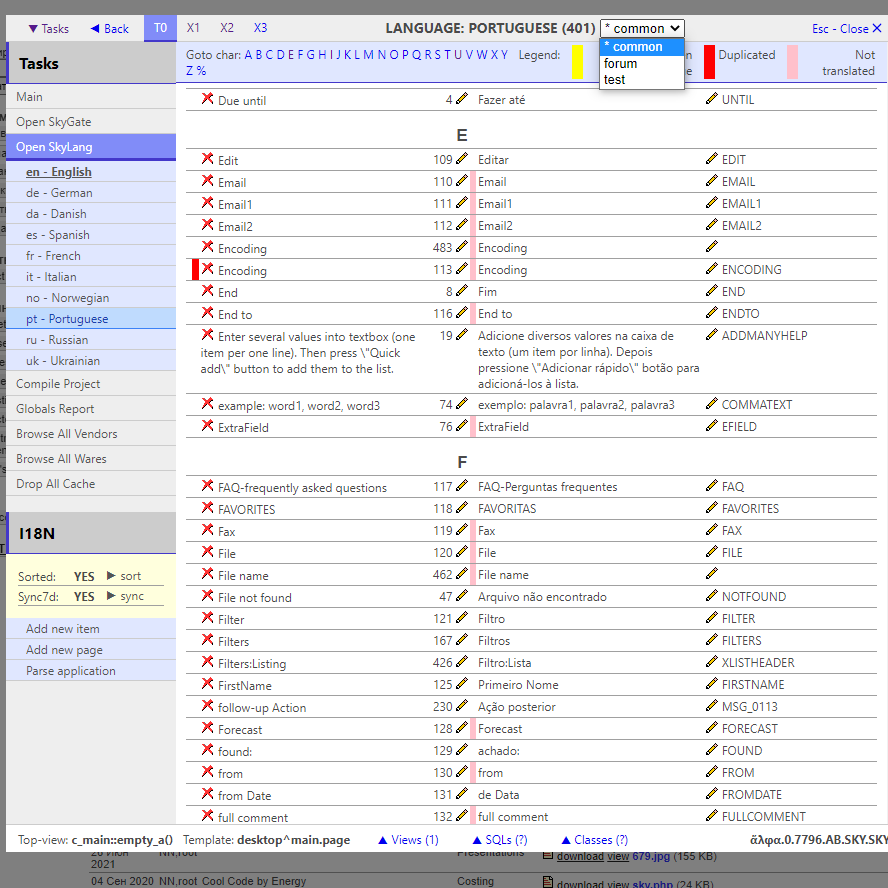
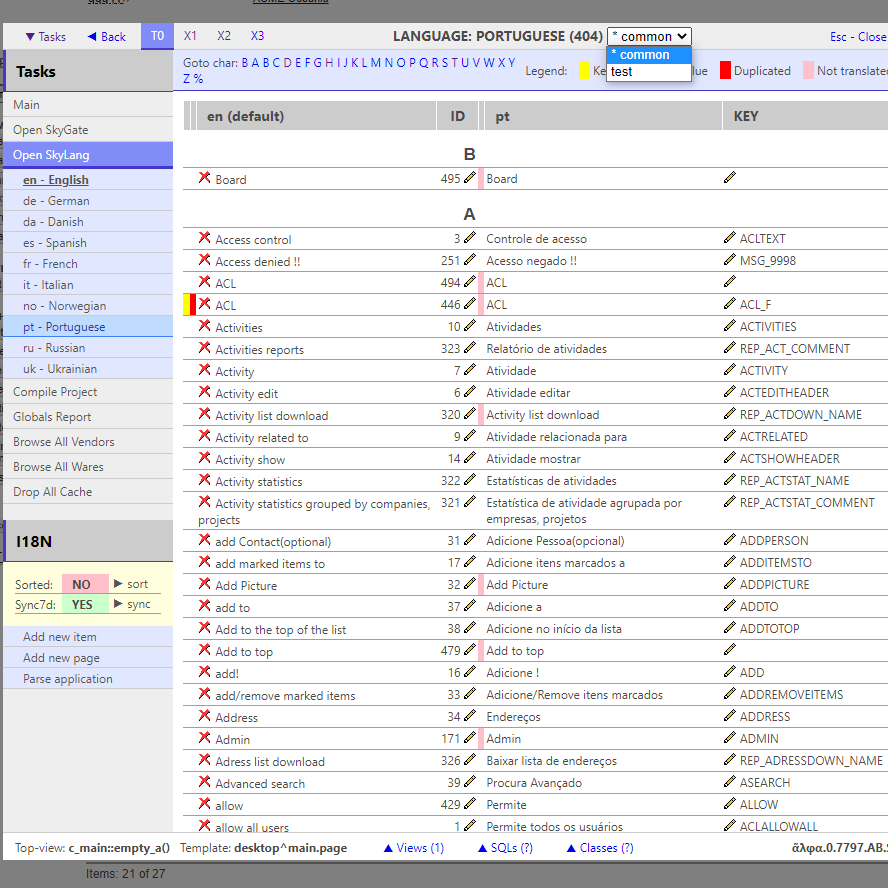
tune Langs

Changed region(s): [[0.0, 0.0, 1.0, 1.0]]

diff --git a/w2/language.php b/w2/language.php
@@ -23,15 +23,15 @@ class Language
         if ($me->error)
             throw new Error("class Language error=$me->error");
         trace($ary, 'Collected new translations');
-        $page = SKY::$reg['lg_page'] ?: '*';
-        $next_id = 0x7FFF & $me->t->cell($where = qp('lg=$+ and name=$+', DEFAULT_LG, $page), 'flag');
+        $me->page = SKY::$reg['lg_page'] ?: '*';
+        $next_id = 0x7FFF & $me->t->cell($where = qp('lg=$+ and name=$+', DEFAULT_LG, $me->page), 'flag');
         $new = array_join($ary, function($k) use (&$next_id) {
             return $next_id++ . '  ' . escape($k);
         });
         // qp('$cc($+, tmemo)', "$new\n") not work !
-        $me->t->update(['$tmemo' => qp(qp('$cc($+, tmemo)'), "$new\n")], qp('name=$+', $page));
+        $me->t->update(['$tmemo' => qp(qp('$cc($+, tmemo)'), "$new\n")], qp('name=$+', $me->page));
         $me->t->update(['.flag' => $next_id | self::NON_SORT], $where);
-        $me->c_generate($page, false); # without sorting
+        $me->c_sync(false, false); # without sorting
     }
 
     static function names() {
@@ -164,9 +164,19 @@ class Language
         return $this->c_list($lg);
     }
 
-    function c_generate($page, $is_user = true) {
+    function c_sync($lg, $is_user = true) {
+        if ($lg) {
+            $list = $this->t->all(qp('name<>"*" group by name'), 'name');
+            $tmp = $this->page;
+            foreach ([-1 => '*'] + $list as $page) {
+                $this->page = $page;
+                $this->c_sync(false, $is_user);
+            }
+            $this->page = $tmp;
+            return $this->c_list($lg);
+        }
         $dary = $this->load(DEFAULT_LG, $is_user, $is_user);
-        $page = '*' === $page ? '' : "_$page";
+        $page = '*' === $this->page ? '' : "_$this->page";
         foreach ($this->list as $lg) {
             $out = [];
             $ary = $lg == DEFAULT_LG ? [] : $this->load($lg);
@@ -189,7 +199,6 @@ class Language
             $file .= "\nreturn " . var_export($out, true) . ";\n\n";
             Plan::_p("lng/$lg$page.php", $file);
         }
-        return [];
     }
 
     function c_test() { //Plan::_t
@@ -271,18 +280,16 @@ class Language
     }
 
     private function &load($lg, $is_sort = false, $is_sync = false) {
-        global $sky;
         $row = $this->t->one(qp('lg=$+ and name=$+', $lg, $this->page));
         $flag = $row['flag'];
-        $update = '';
-        if ($def = $lg == DEFAULT_LG) {
+        if ($lg == DEFAULT_LG) {
             $this->nsort = $flag & self::NON_SORT;
             $this->nsync = $flag & self::NON_SYNC;
-            $update = "update \$_$sky->d_lgt set tmemo=%s where id=$row[id]";
+            $is_sync AND $flag &= ~self::NON_SYNC;
         }
-        $ary =& SKY::ghost($def ? 'i' : 'j', trim($row['tmemo'], "\n"), $update);
-        if ($sorted = $is_sort && $this->nsort) {
-            uasort(SKY::$mem['i'][3], function($a, $b) {
+        $ary =& SKY::ghost('i', trim($row['tmemo'], "\n"), false, 1);
+        if ($is_sort = $is_sort && $this->nsort) {
+            uasort($ary, function($a, $b) {
                 $a0 = ord($a = mb_strtolower(explode(' ', $a, 2)[1]));
                 $b0 = ord($b = mb_strtolower(explode(' ', $b, 2)[1]));
                 $a_alfa = 'en' != DEFAULT_LG ? $a0 > 0x7F : 0x60 < $a0 && $a0 < 0x7B;
@@ -293,13 +300,14 @@ class Language
                     return -1;
                 return $a === $b ? 0 : ($a < $b ? -1 : 1);
             });
-            trace('Sorted');
+            
             $flag &= ~self::NON_SORT;
-            SKY::$mem['i'][0] = 1; # save
             $this->nsort = 0;
+            $mem = ['tmemo' => SKY::sql('i')];
         }
-        if ($is_sync || $sorted)
-            $this->t->update(['flag' => $is_sync ? $flag & ~self::NON_SYNC : $flag]);
+        trace($is_sort ? 'Sorted' : 'Not sorted', "{$lg}_$this->page");
+        if ($row['flag'] != $flag)
+            $this->t->update(['flag' => $flag] + ($mem ?? []));
         return $ary;
     }
 
@@ -341,6 +349,9 @@ class Language
                     'id' => $id,
                     'chr' => $char != $nc ? [$char = $nc, $sz] : false,
                 ];
+            },
+            'td' => function($v) {
+                return tag($v ? 'NO' : 'YES', 'class="yn-' . ($v ? 'r' : 'g') . '"', 'td');
             },
         ];
     }

diff --git a/sky.php b/sky.php
@@ -20,7 +20,7 @@ class SKY implements PARADISE
     public $cnt_error = 0;
     public $cli;
     public $gpc = '';
-    public $lg = DEFAULT_LG;
+    public $lg = DEFAULT_LG;////////////////////
     public $shutdown = [];
 
     static $mem = [];
@@ -166,7 +166,7 @@ class SKY implements PARADISE
         if ($this->s_trace_single)
             $this->s_trace_single = 0; # single click done
         foreach (SKY::$mem as $char => &$v)
-            $v[0] && $v[2] && SKY::sql($char);
+            $v[0] && $v[2] && SKY::sql($char, false);
     }
 
     function __get($name) {
@@ -209,7 +209,7 @@ class SKY implements PARADISE
             return $x[0] |= 1;          # n - cron conf
         }                               # u - user
         if (!isset($args[1]))           # i,j,k - used in Language class
-            return $x[$k] ?? '';        # d - development conf
+            return $x[3][$k] ?? '';        # d - development conf
         $v = $args[1];
         if (is_null($k)) {
             if ($exists)
@@ -235,7 +235,7 @@ class SKY implements PARADISE
         return SKY::$mem[$char][3];
     }
 
-    static function sql($char, $return = false) {
+    static function sql($char, $return = true) {
         $x =& SKY::$mem[$char];
         if ('s' == $char && !$x[1]) # protect if SQL select failed
             return false;
